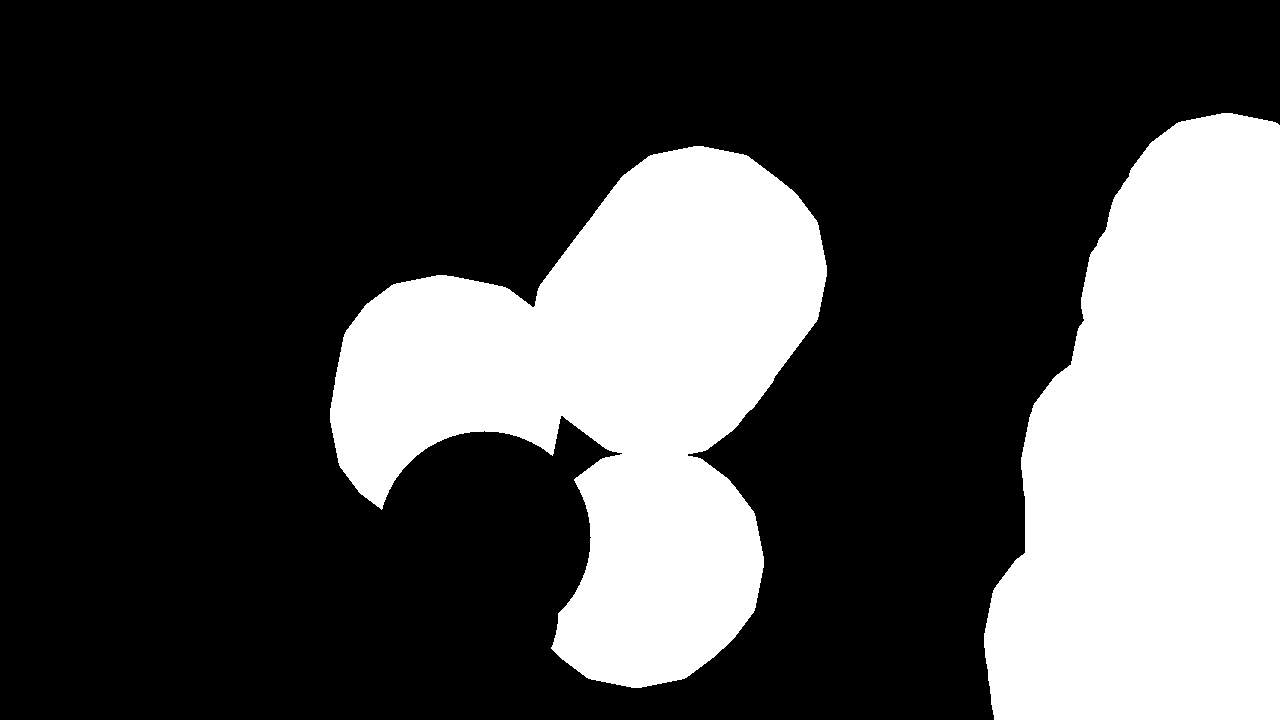
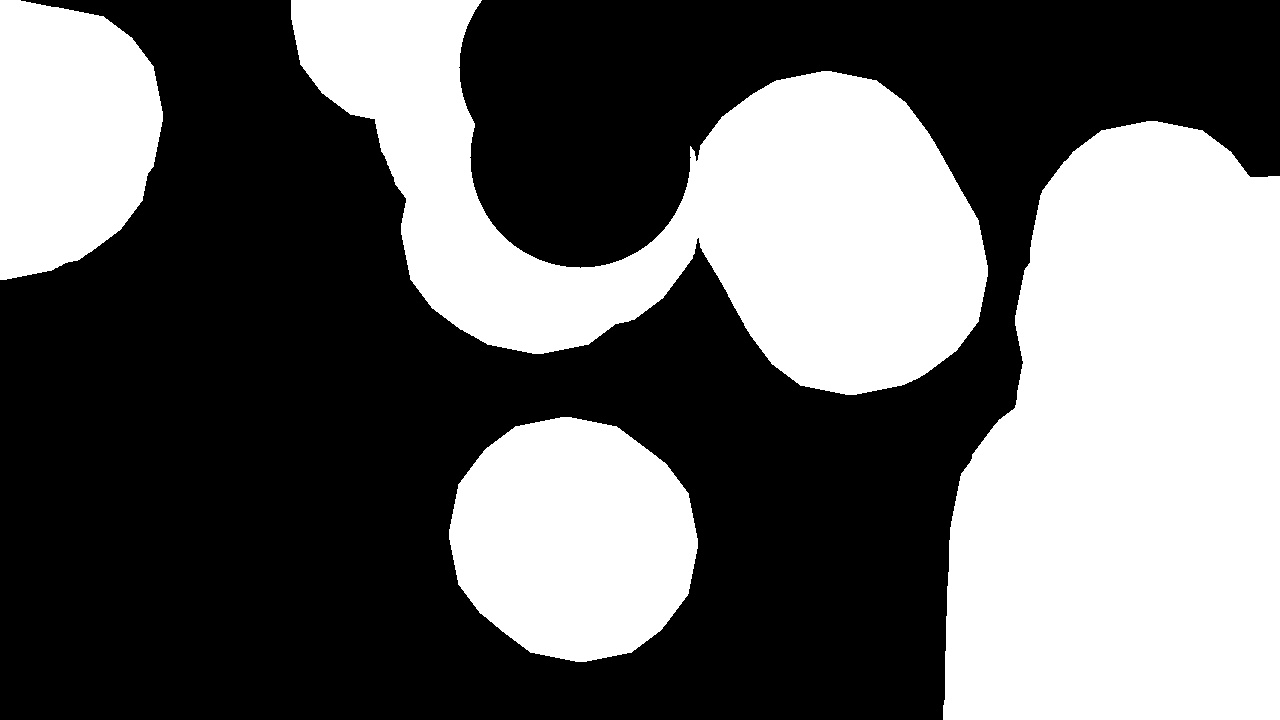
all good and visualize transform distance

Changed region(s): [[0.2188, 0.0, 1.0, 1.0], [0.0, 0.0, 0.125, 0.3972]]

diff --git a/Transform Distance.py b/Transform Distance.py
@@ -1,26 +1,76 @@
-
+import pygame
+import numpy as np
 import cv2
-import numpy as np 
 
-# Step 1: Buat matrix
+# Step 1: Buat matrix dengan beberapa titik pusat (nilai 1)
 matrix = np.array([
     [0,0,0,0,0,0,0,0],
-    [0,0,0,0,0,0,0,0],
-    [0,0,0,0,0,0,0,0],
+    [0,0,0,1,0,0,0,0],
+    [0,0,0,0,0,0,1,0],
     [0,0,0,1,0,0,0,0],
     [0,0,0,0,0,0,0,0],
-    [0,0,0,0,0,0,0,0],
+    [0,1,0,0,0,0,0,0],
     [0,0,0,0,0,0,0,0],
     [0,0,0,0,0,0,0,0]
 ], dtype=np.uint8)
 
-# Step 2: Distance transform pada area bebas (0)
+# Step 2: Hitung distance transform
 dist = cv2.distanceTransform(1 - matrix, cv2.DIST_L2, 5)
 
-print(dist)
+# Step 3: Threshold buffer radius (3x ukuran marker, misal marker = 1 maka threshold = 3)
+buffer_radius = 1.5
+buffer_zone = dist <= buffer_radius
+buffer_matrix = np.where(buffer_zone, 1, 0)
 
-# Step 3: Buat buffer di sekitar obstacle dengan radius tertentu
-buffer_radius = 3
-buffered_obstacle = np.uint8(dist < 2)
+# Setup pygame
+pygame.init()
+cell_size = 60
+rows, cols = matrix.shape
+screen = pygame.display.set_mode((cols * cell_size, rows * cell_size))
+pygame.display.set_caption("Buffer Expansion")
+font = pygame.font.SysFont(None, 24)
 
-print(buffered_obstacle)
+def draw_frame(show_buffer=False):
+    screen.fill((255, 255, 255))  # Background putih
+
+    for y in range(rows):
+        for x in range(cols):
+            rect = pygame.Rect(x * cell_size, y * cell_size, cell_size, cell_size)
+
+            # Gambar buffer zone (warna biru muda transparan)
+            if show_buffer and buffer_matrix[y][x] == 1:
+                pygame.draw.rect(screen, (128, 128, 128), rect)  # light blue
+
+            # Gambar obstacle hitam
+            if matrix[y][x] == 1:
+                pygame.draw.rect(screen, (0, 0, 0), rect)
+
+            # Tampilkan nilai jarak (jika tanpa buffer)
+            if not show_buffer and matrix[y][x] == 0:
+                value = dist[y][x]
+                text = font.render(f"{value:.1f}", True, (0, 0, 0))
+                text_rect = text.get_rect(center=(x * cell_size + cell_size // 2, y * cell_size + cell_size // 2))
+                screen.blit(text, text_rect)
+
+            # Gambar grid terakhir supaya tidak tertutup
+            pygame.draw.rect(screen, (200, 200, 200), rect, 1)
+
+# Frame 1: Nilai distance
+draw_frame(show_buffer=False)
+pygame.display.flip()
+pygame.image.save(screen, 'Frame_DistanceValue.jpg')
+pygame.time.wait(2000)  # Tampilkan selama 2 detik
+
+# Frame 2: Setelah buffer diterapkan
+draw_frame(show_buffer=True)
+pygame.display.flip()
+pygame.image.save(screen, 'Frame_Buffered.jpg')
+
+# Tunggu sampai window ditutup
+running = True
+while running:
+    for event in pygame.event.get():
+        if event.type == pygame.QUIT:
+            running = False
+
+pygame.quit()

diff --git a/Z_Mapping.py b/Z_Mapping.py
@@ -11,9 +11,9 @@ CIRCLE_RADIUS = 6  # Ukuran radius bulatan (dalam pixel)
 CIRCLE_COLOR = "#590a6f"  # Warna bulatan, misalnya tomat
 
 # Konfigurasi grid
-GRID_SIZE = 16
-WIDTH = 512 #GRID_SIZE * CELL_SIZE
-HEIGHT = 512 #GRID_SIZE * CELL_SIZE
+GRID_SIZE = 5
+WIDTH = 500 #GRID_SIZE * CELL_SIZE
+HEIGHT = 500 #GRID_SIZE * CELL_SIZE
 CELL_SIZE = WIDTH//GRID_SIZE
 
 # Inisialisasi Pygame

diff --git a/Run_to_Path.py b/Run_to_Path.py
@@ -87,6 +87,7 @@ while running:
             path.pop(0)
 
     elif (start and goal): 
+        marker_lost_time = None
 
         # Cari error ke posisi goal
         target = tuple(path[0])
